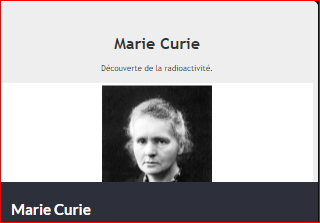
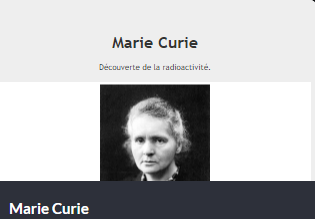
mise en place des image projet
Mise en place des image de l'article projet

diff --git a/indexnew.html b/indexnew.html
@@ -29,16 +29,16 @@
        <a href="https://codepen.io/Arckamna/full/NJrVQY"><h3>Marie Curie</h3><img src="img/projetMarie.PNG"></a>
 		 </article>
 		 <article id="marchand">
-      <a href="https://codepen.io/Arckamna/full/eXzXYa"> <h3>Exemple site marchand</h3></a>
+      <a href="https://codepen.io/Arckamna/full/eXzXYa"> <h3>Exemple site marchand</h3><img src="img/projetMarchand.PNG"></a>
 		 </article>
 		 <article id="portfolio">
-       <a href="https://codepen.io/Arckamna/full/WmGeQp"><h3>Exemple portfolio</h3></a>
+       <a href="https://codepen.io/Arckamna/full/WmGeQp"><h3>Exemple portfolio</h3><img src="img/projetPortfolio.PNG"></a>
 		 </article>
 		 <article id="documentation">
-       <a href="https://codepen.io/Arckamna/full/LaZwmB"><h3>Exemple documentation</h3></a>
+       <a href="https://codepen.io/Arckamna/full/LaZwmB"><h3>Exemple documentation</h3><img src="img/projetDocumentation.PNG"></a>
 		 </article>
 		 <article id="formulaire">
-       <a href="https://codepen.io/Arckamna/full/wOWNbp"><h3>Exemple de formulaire</h3></a>
+       <a href="https://codepen.io/Arckamna/full/wOWNbp"><h3>Exemple de formulaire</h3><img src="img/projetFormulaire.PNG"></a>
 
 		 </article>
 		 <article>

diff --git a/cssnew.css b/cssnew.css
@@ -5,8 +5,8 @@ section{
 
 }
 article{
-  width: 30vh;
-  border: 5px solid green;
+  width: 20vw;
+  border: 3px solid green;
   padding: 20px;
   margin: 15px;
   display: inline-grid;
@@ -55,7 +55,7 @@ article a{
   color:black;
 }
 article img{
-  border-radius: 5px;
-  border : 2px solid black;
+  border-radius: 15px;
+  border : 3px solid black;
 
 }
